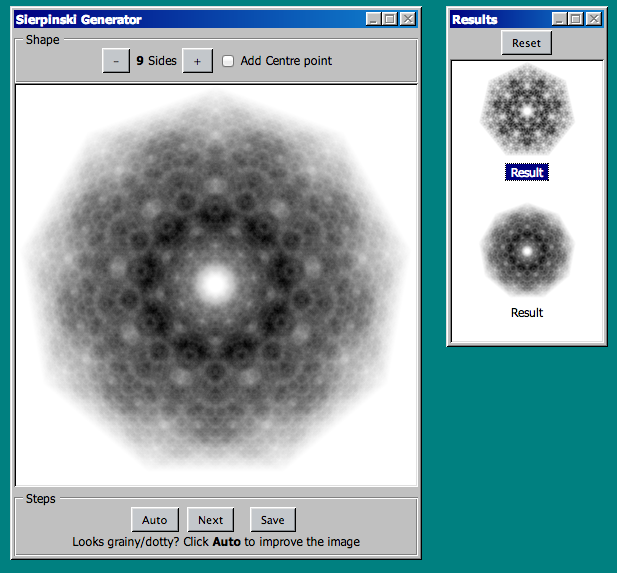
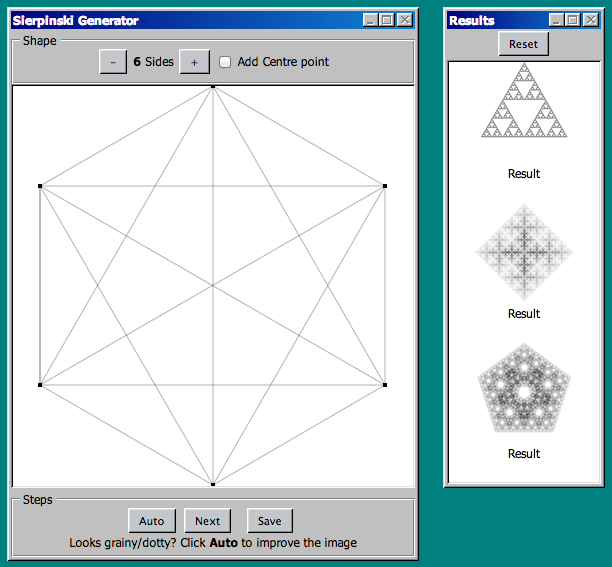
* remove unused file, update sample image, add changes to JS

diff --git a/Sierp.js/sierp.js b/Sierp.js/sierp.js
@@ -1,20 +1,22 @@
-function Point(x, y){
+function Point(x, y) {
 	var self = this;
-	self.x = parseInt(x);
-	self.y = parseInt(y);
+	self.x = parseInt(x, 0);
+	self.y = parseInt(y, 0);
+}
+
+Point.prototype.toIndex = function(w) { 
+	return parseInt(this.x + (this.y*w), 10); 
 };
 
-Point.prototype.toIndex = function(w){ 
-	return parseInt(this.x + (this.y*w)); 
-};
-Point.prototype.approach = function(other){
+Point.prototype.approach = function(other) {
 	return new Point(
 			(this.x + other.x) / 2,
 			(this.y + other.y) / 2
 			);
-}
+};
 
-function Sierp(w, h, step){
+
+function Sierp(w, h, step) {
 	var self = this;
 
 	self.width = w;
@@ -23,24 +25,24 @@ function Sierp(w, h, step){
 	self.step = step;
 	self.output = null;
 
-	self.points = new Array();
+	self.points = [];
 
-	self.xy = function(x, y){
-		if (x.toIndex){	return x.toIndex(self.width); }
-		return parseInt(x + (y * self.width));
+	self.xy = function(x, y) {
+		if (x.toIndex) {	return x.toIndex(self.width); }
+		return parseInt(x + (y * self.width), 10);
 	}
-	self.getPoint = function(index){
+	self.getPoint = function(index) {
 		return new Point(index % self.width, index / self.width);
 	}
 
-	self.generation = function(from){
+	self.generation = function(from) {
 		var to = new Int16Array(self.width * self.height);
 		self.max=0;
 		var i = 0;
 		for (var i = 0; i < from.length; ++i) {
-			if (from[i] > 0){
+			if (from[i] > 0) {
 				var pos = self.getPoint(i);
-				for (var p = 0; p < self.points.length; ++p){
+				for (var p = 0; p < self.points.length; ++p) {
 					var point  = self.points[p];
 					var new_index = self.xy(pos.approach(point));
 					to[new_index] = Math.min(to[new_index] + from[i], 32767);
@@ -51,11 +53,11 @@ function Sierp(w, h, step){
 		return to;
 	}
 
-	self.set_points = function(sides){
+	self.set_points = function(sides) {
 		self.points = new Array();
 		var full_circle = 2.0*Math.PI;
 		var step_angle = full_circle/sides;
-		for (var i=0; i<sides; ++i){
+		for (var i=0; i<sides; ++i) {
 			var angle =(-full_circle/4) + step_angle * i;
 			var new_x = 0.5 + Math.cos(angle) * 0.499;
 			var new_y = 0.5 + Math.sin(angle) * 0.499;
@@ -64,20 +66,32 @@ function Sierp(w, h, step){
 		self.reset();
 	};
 
-	self.reset = function(){
+	self.reset = function() {
 		self.output = new Int16Array(self.width * self.height);
 		self.output[self.xy(self.width/2, self.height/2)] = self.step;
 	}
 
-	self.next = function(){
+	self.next = function() {
 		self.output = self.generation(self.output);
 	}
 
-	self.render = function(canvas){
+    self.safe_next = function() {
+        var max = self.max;
+        var new_output = self.generation(self.output)
+        if (self.max >= 32767){
+            self.max = max;
+            return false;
+        }else{
+            self.output = new_output;
+            return true;
+        }
+    }
+
+	self.render = function(canvas) {
 		var ctx = canvas.getContext('2d');
 		var image = ctx.createImageData(self.width, self.height);
 		var factor = 255/self.max;
-		for (var i=0; i<self.output.length; i += 1){
+		for (var i=0; i<self.output.length; i += 1) {
 			var basis = i * 4;
 			image.data[basis] = 0;
 			image.data[basis+1] = 0;
@@ -85,8 +99,30 @@ function Sierp(w, h, step){
 			image.data[basis+3] = self.output[i] * factor;
 		}
 		ctx.putImageData(image, 0, 0);
-//		exctx.putImageData(context.getImageData(0, 0, 200, 200), 0, 0);	
-
 	}
+
+    self.drawPoints = function(canvas) {
+        var ctx = canvas.getContext('2d');
+        var wid = canvas.width;
+        var hei = canvas.height;
+        ctx.clearRect(0,0,wid,hei);
+        ctx.lineWidth = 0.3;
+        if (self.points.length == 0) return;
+        ctx.beginPath();
+        for (var i=0; i < self.points.length; ++i){
+            ctx.fillRect(
+                self.points[i].x - 2,
+                self.points[i].y - 2,
+                4,
+                4);
+            for (var j=(i+1); j < self.points.length; ++j){
+                ctx.moveTo(self.points[i].x, self.points[i].y);
+                ctx.lineTo(self.points[j].x, self.points[j].y);
+            }
+        }
+        ctx.closePath();
+        ctx.stroke();
+    }
+ 
 
 }
